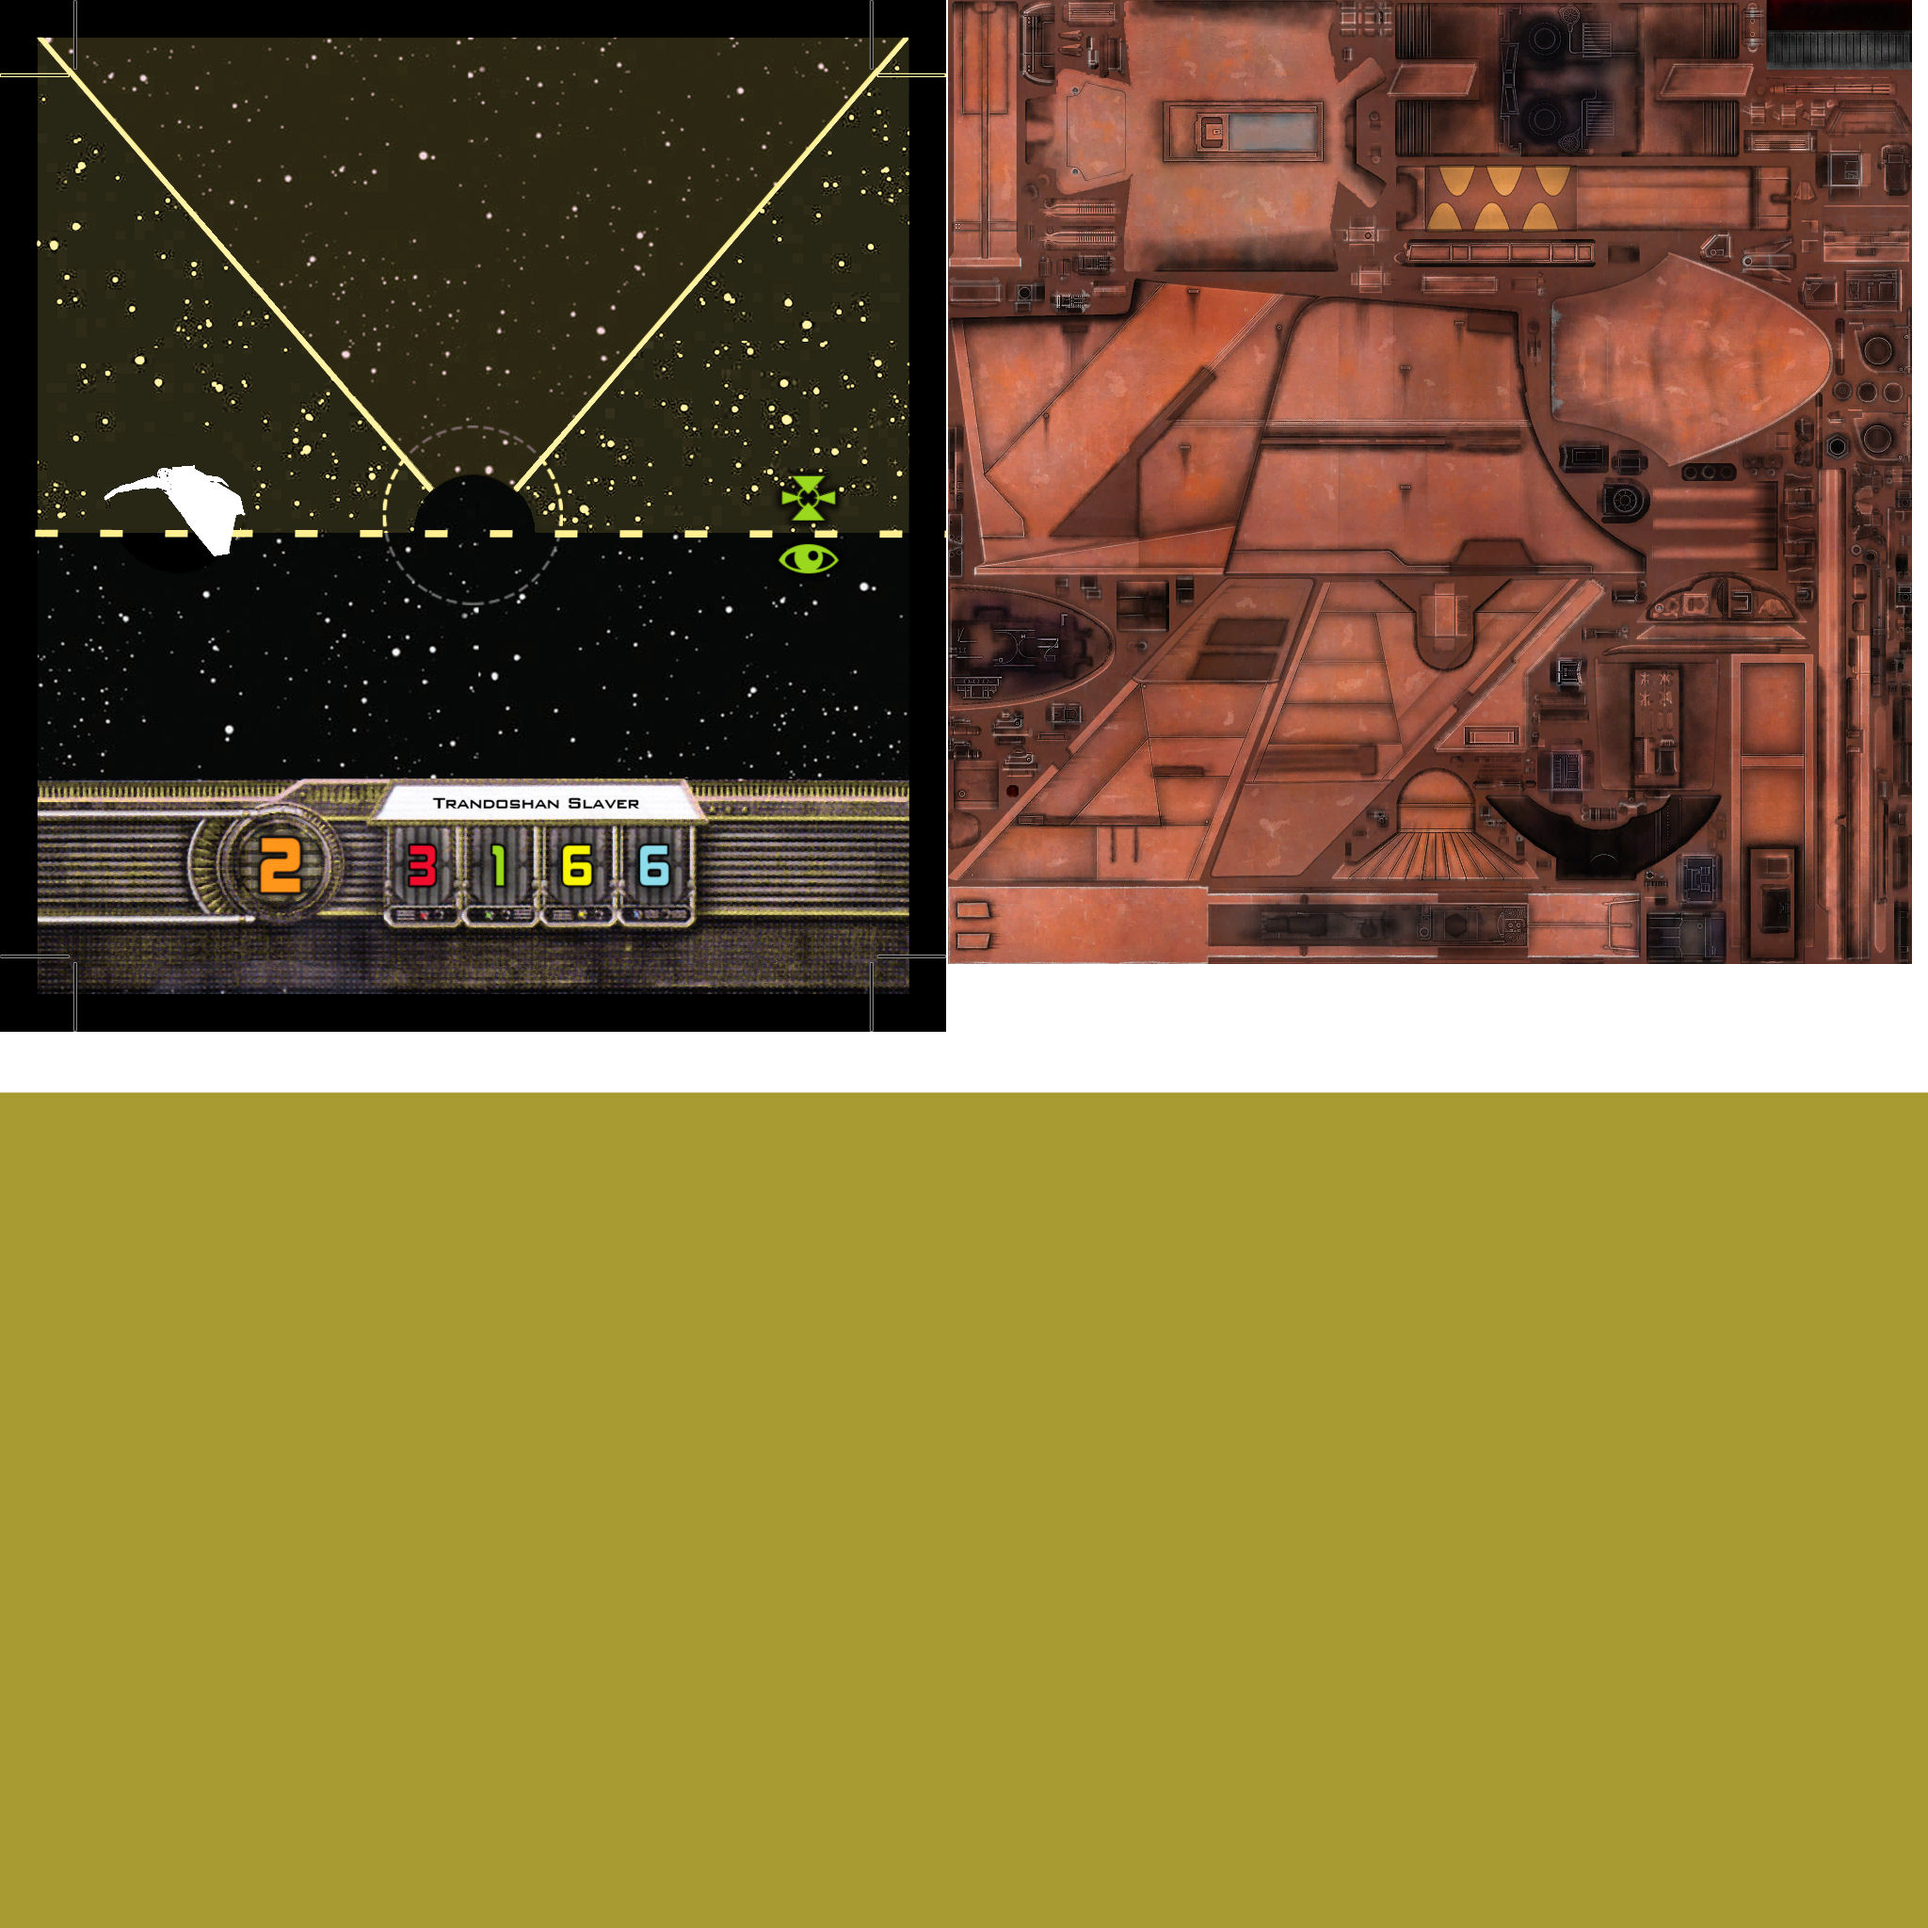
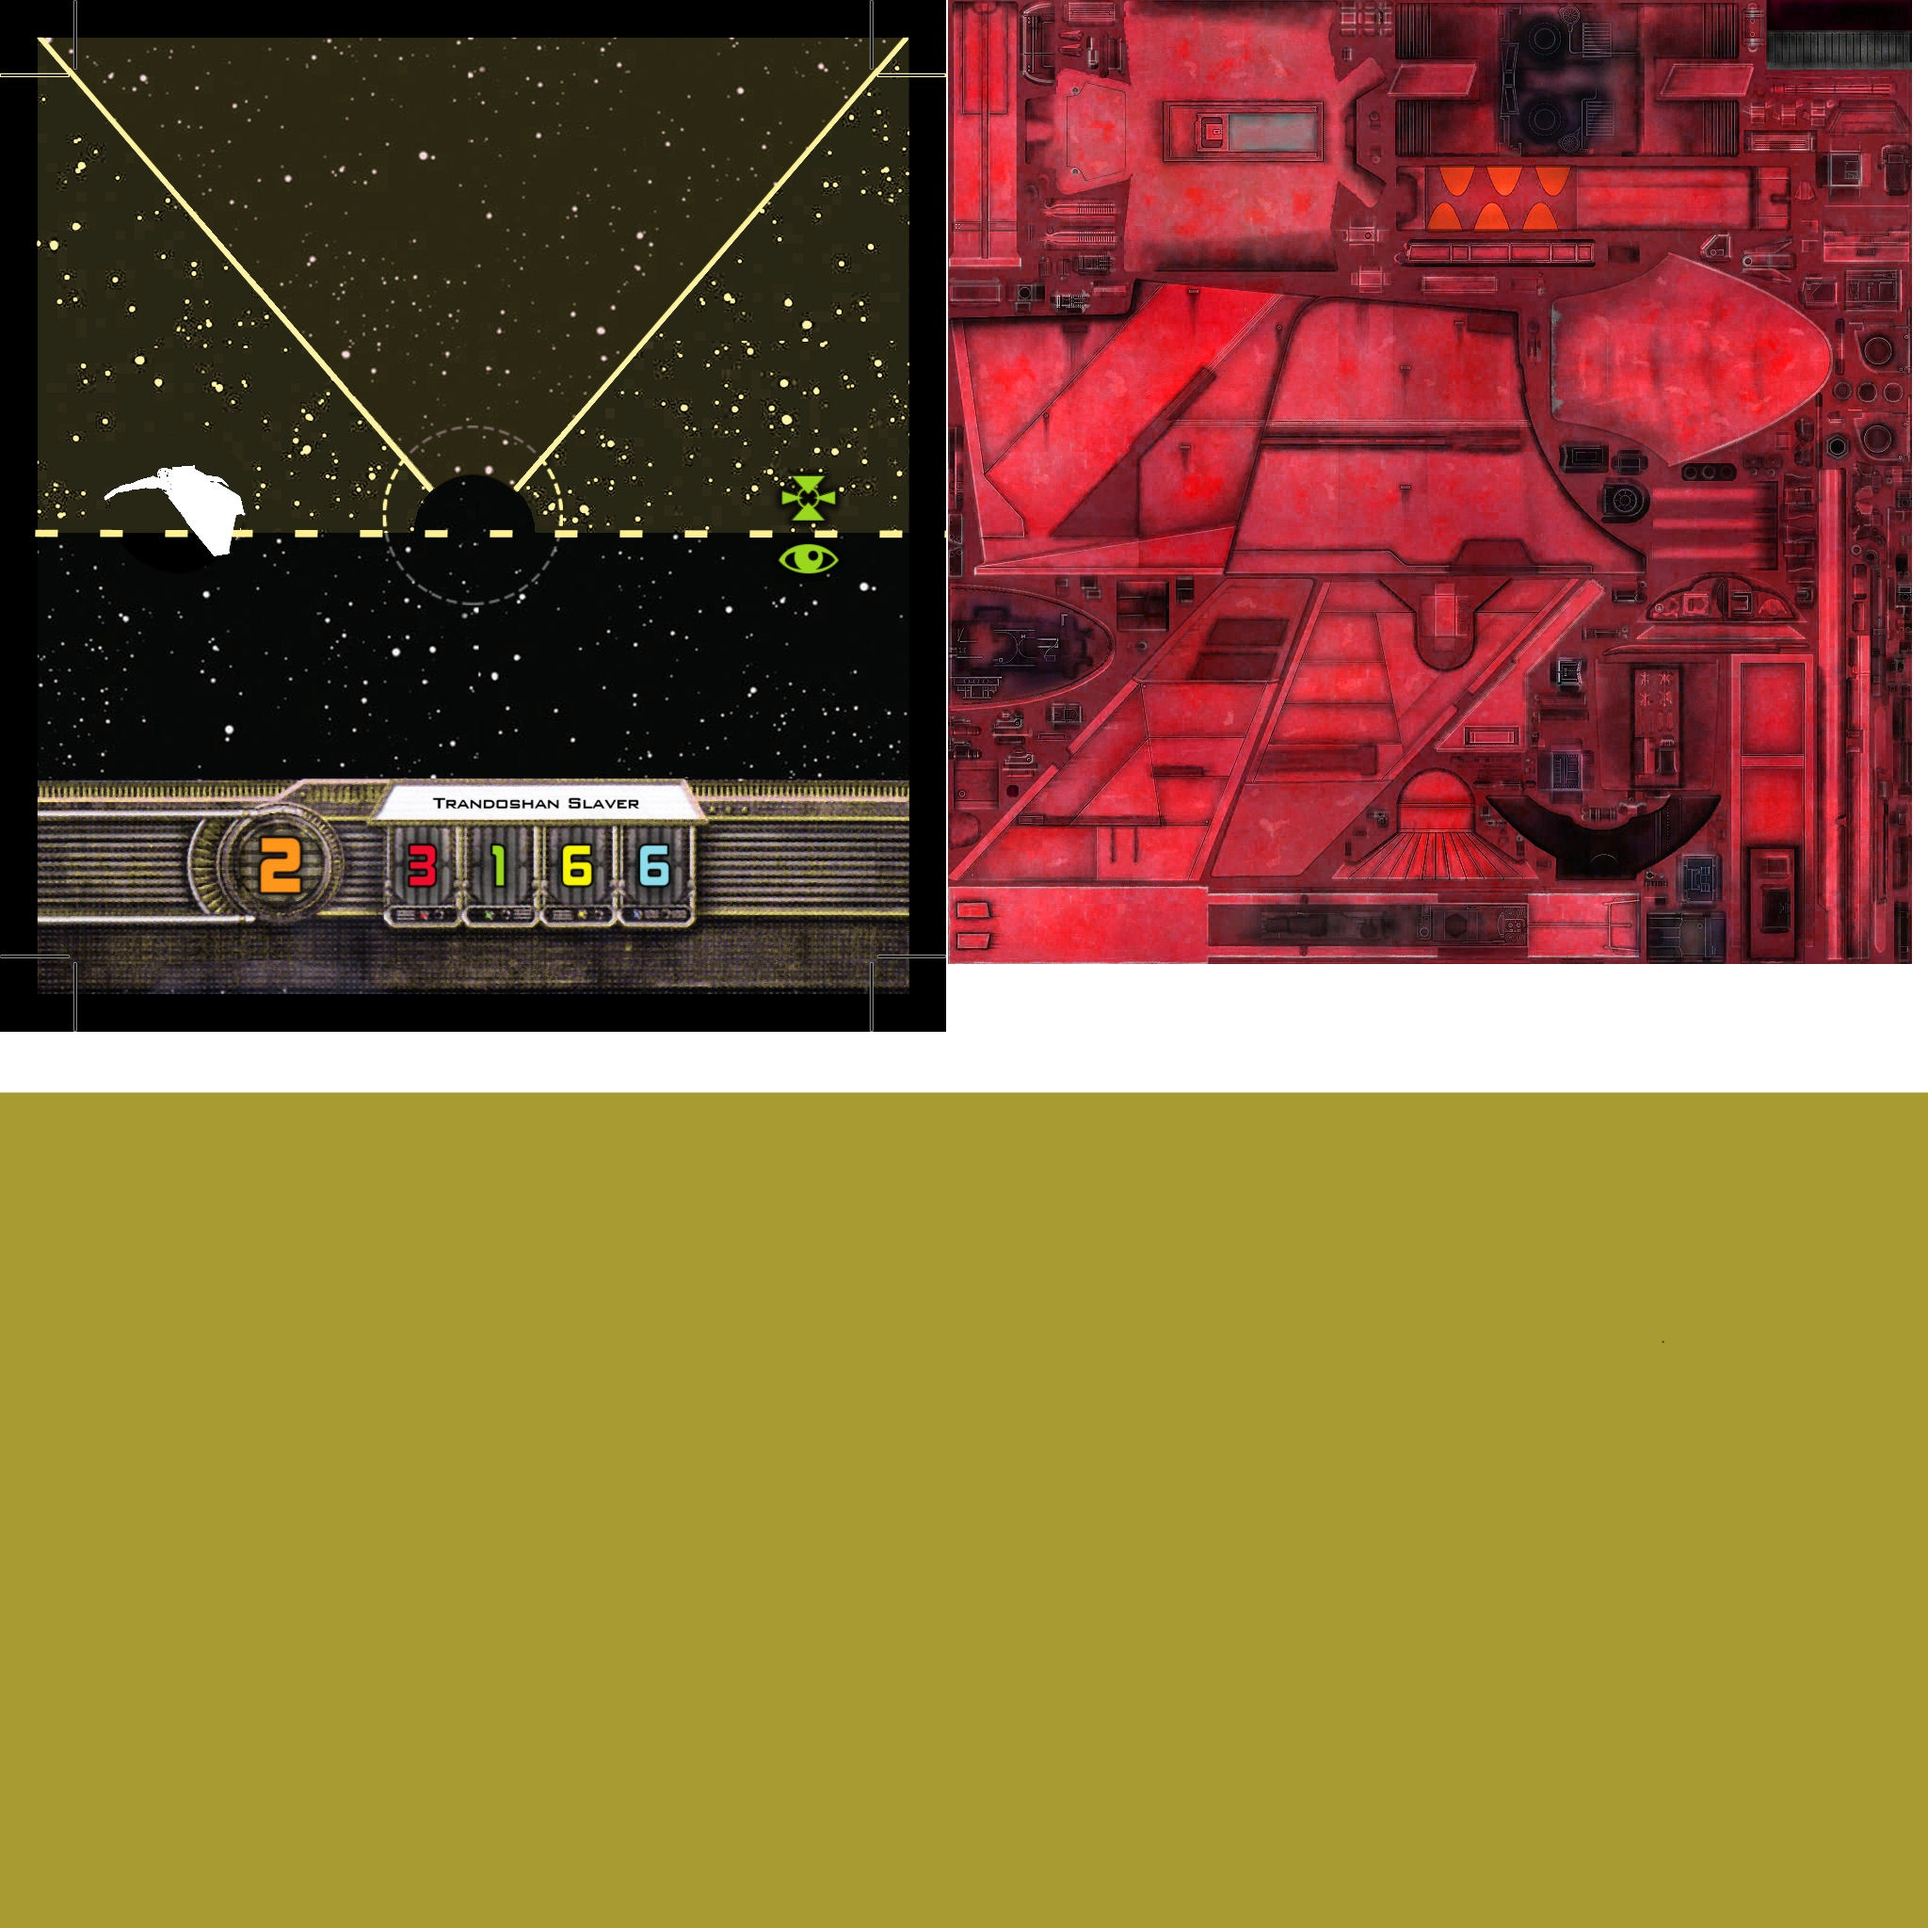
YV-666 skins are updated

Changed region(s): [[0.4688, 0.0, 1.0, 0.5]]

diff --git a/Assets/Scripts/Model/Ships/YV-666/YV-666.cs b/Assets/Scripts/Model/Ships/YV-666/YV-666.cs
@@ -40,7 +40,7 @@ namespace Ship
                 factions.Add(Faction.Scum);
                 faction = Faction.Scum;
 
-                SkinName = "Crimson";
+                SkinName = "Brown";
 
                 SoundShotsPath = "Slave1-Fire";
                 ShotsCount = 3;

diff --git a/Assets/Scripts/Model/Ships/YV-666/MoraloEval.cs b/Assets/Scripts/Model/Ships/YV-666/MoraloEval.cs
@@ -18,6 +18,8 @@ namespace Ship
 
                 IsUnique = true;
 
+                SkinName = "Crimson";
+
                 PilotAbilities.Add(new Abilities.MoraloEvalAbility());
             }
         }
